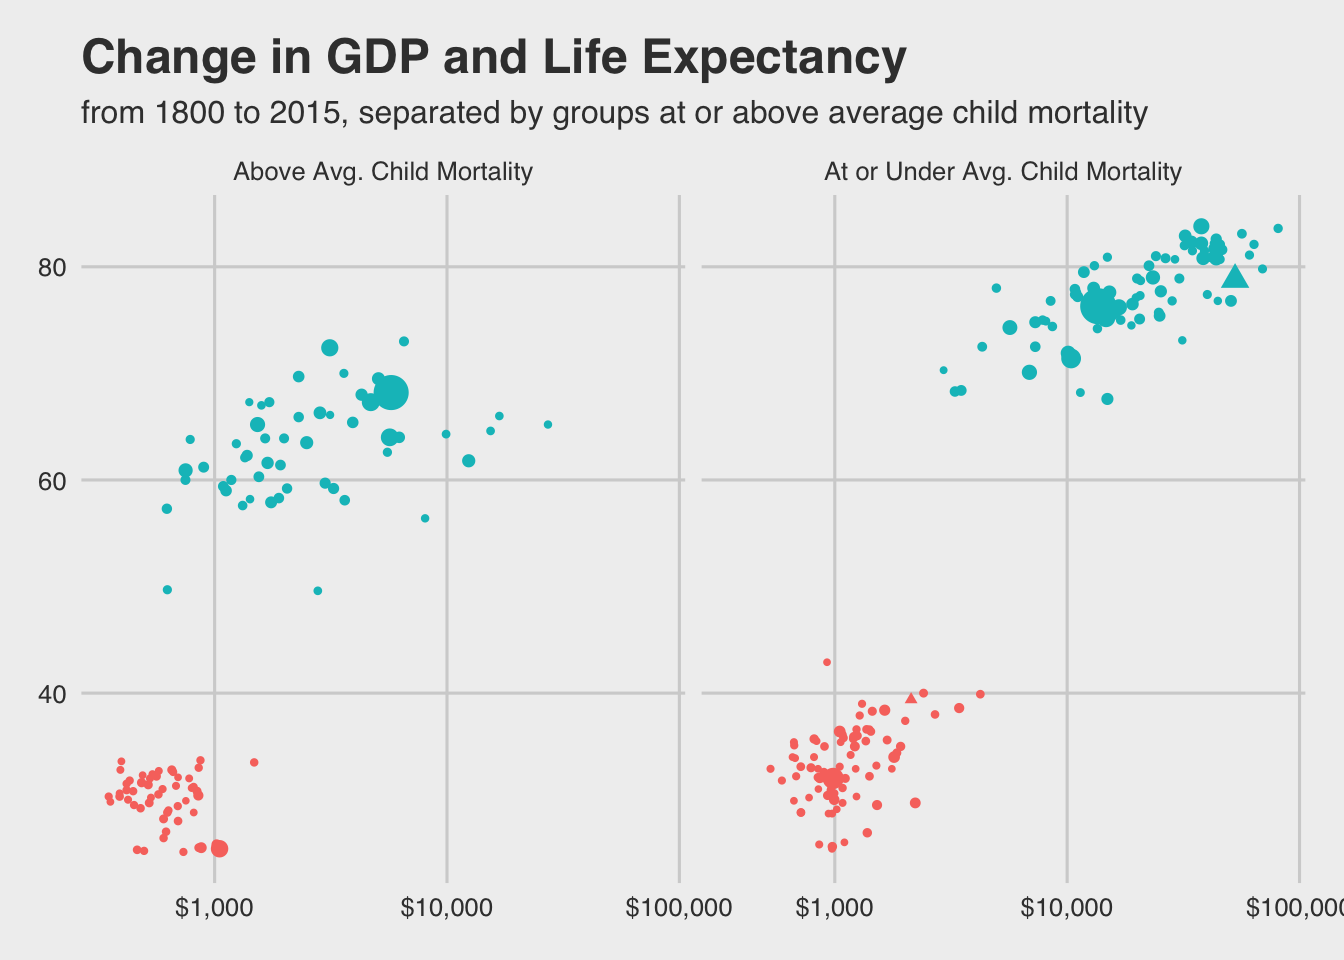
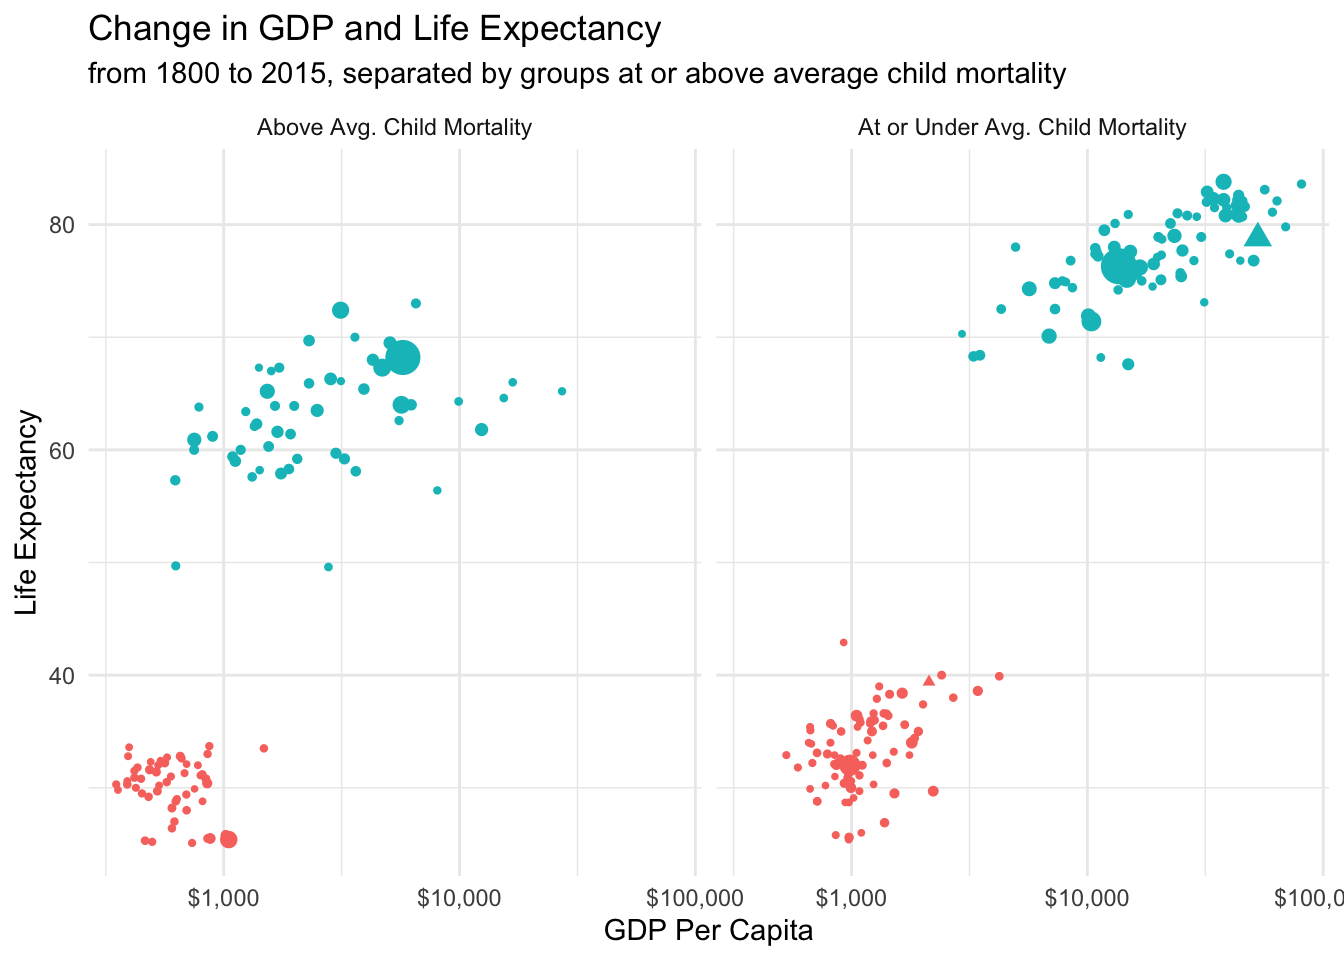
Updating Code Chunk highlighting

diff --git a/public/modules/rgraphicstutorial/index.html b/public/modules/rgraphicstutorial/index.html
@@ -42,15 +42,7 @@
 
     <script src="https://cdnjs.cloudflare.com/ajax/libs/highlight.js/9.12.0/highlight.min.js"></script>
     
-        <script src="https://cdnjs.cloudflare.com/ajax/libs/highlight.js/9.12.0/languages/go.min.js"></script>
-    
-        <script src="https://cdnjs.cloudflare.com/ajax/libs/highlight.js/9.12.0/languages/haskell.min.js"></script>
-    
-        <script src="https://cdnjs.cloudflare.com/ajax/libs/highlight.js/9.12.0/languages/kotlin.min.js"></script>
-    
-        <script src="https://cdnjs.cloudflare.com/ajax/libs/highlight.js/9.12.0/languages/scala.min.js"></script>
-    
-        <script src="https://cdnjs.cloudflare.com/ajax/libs/highlight.js/9.12.0/languages/swift.min.js"></script>
+        <script src="https://cdnjs.cloudflare.com/ajax/libs/highlight.js/9.12.0/languages/R.min.js"></script>
     
     <script>hljs.initHighlightingOnLoad();</script>
 
@@ -450,7 +442,7 @@ gselect_us &lt;- gap_selected_years %&gt;%
 
 
 ggplot(gselect_us) + 
-  # let&#39;s add the `shape` argument to our aesthetics
+  # let&#39;s add the &quot;shape&quot; argument to our aesthetics
   geom_point(aes(x = GDP_per_capita, y = life_expectancy, color = as.factor(Year), size = population,
                  shape = as.factor(us_val))) +
   # fix our log scale (make them dollars)
@@ -495,7 +487,7 @@ ggplot(child_mort_cutoff_data) +
   # let&#39;s get rid of the legends for now...
   guides(size = FALSE, color = FALSE, shape = FALSE) +
   # and add a theme
-  theme_fivethirtyeight() +
+  theme_minimal() +
   # and labels
   labs(
     y = &quot;Life Expectancy&quot;,

diff --git a/public/404.html b/public/404.html
@@ -42,15 +42,7 @@
 
     <script src="https://cdnjs.cloudflare.com/ajax/libs/highlight.js/9.12.0/highlight.min.js"></script>
     
-        <script src="https://cdnjs.cloudflare.com/ajax/libs/highlight.js/9.12.0/languages/go.min.js"></script>
-    
-        <script src="https://cdnjs.cloudflare.com/ajax/libs/highlight.js/9.12.0/languages/haskell.min.js"></script>
-    
-        <script src="https://cdnjs.cloudflare.com/ajax/libs/highlight.js/9.12.0/languages/kotlin.min.js"></script>
-    
-        <script src="https://cdnjs.cloudflare.com/ajax/libs/highlight.js/9.12.0/languages/scala.min.js"></script>
-    
-        <script src="https://cdnjs.cloudflare.com/ajax/libs/highlight.js/9.12.0/languages/swift.min.js"></script>
+        <script src="https://cdnjs.cloudflare.com/ajax/libs/highlight.js/9.12.0/languages/R.min.js"></script>
     
     <script>hljs.initHighlightingOnLoad();</script>
 

diff --git a/public/about/index.html b/public/about/index.html
@@ -42,15 +42,7 @@
 
     <script src="https://cdnjs.cloudflare.com/ajax/libs/highlight.js/9.12.0/highlight.min.js"></script>
     
-        <script src="https://cdnjs.cloudflare.com/ajax/libs/highlight.js/9.12.0/languages/go.min.js"></script>
-    
-        <script src="https://cdnjs.cloudflare.com/ajax/libs/highlight.js/9.12.0/languages/haskell.min.js"></script>
-    
-        <script src="https://cdnjs.cloudflare.com/ajax/libs/highlight.js/9.12.0/languages/kotlin.min.js"></script>
-    
-        <script src="https://cdnjs.cloudflare.com/ajax/libs/highlight.js/9.12.0/languages/scala.min.js"></script>
-    
-        <script src="https://cdnjs.cloudflare.com/ajax/libs/highlight.js/9.12.0/languages/swift.min.js"></script>
+        <script src="https://cdnjs.cloudflare.com/ajax/libs/highlight.js/9.12.0/languages/R.min.js"></script>
     
     <script>hljs.initHighlightingOnLoad();</script>
 

diff --git a/public/categories/index.html b/public/categories/index.html
@@ -42,15 +42,7 @@
 
     <script src="https://cdnjs.cloudflare.com/ajax/libs/highlight.js/9.12.0/highlight.min.js"></script>
     
-        <script src="https://cdnjs.cloudflare.com/ajax/libs/highlight.js/9.12.0/languages/go.min.js"></script>
-    
-        <script src="https://cdnjs.cloudflare.com/ajax/libs/highlight.js/9.12.0/languages/haskell.min.js"></script>
-    
-        <script src="https://cdnjs.cloudflare.com/ajax/libs/highlight.js/9.12.0/languages/kotlin.min.js"></script>
-    
-        <script src="https://cdnjs.cloudflare.com/ajax/libs/highlight.js/9.12.0/languages/scala.min.js"></script>
-    
-        <script src="https://cdnjs.cloudflare.com/ajax/libs/highlight.js/9.12.0/languages/swift.min.js"></script>
+        <script src="https://cdnjs.cloudflare.com/ajax/libs/highlight.js/9.12.0/languages/R.min.js"></script>
     
     <script>hljs.initHighlightingOnLoad();</script>
 

diff --git a/public/categories/r/index.html b/public/categories/r/index.html
@@ -42,15 +42,7 @@
 
     <script src="https://cdnjs.cloudflare.com/ajax/libs/highlight.js/9.12.0/highlight.min.js"></script>
     
-        <script src="https://cdnjs.cloudflare.com/ajax/libs/highlight.js/9.12.0/languages/go.min.js"></script>
-    
-        <script src="https://cdnjs.cloudflare.com/ajax/libs/highlight.js/9.12.0/languages/haskell.min.js"></script>
-    
-        <script src="https://cdnjs.cloudflare.com/ajax/libs/highlight.js/9.12.0/languages/kotlin.min.js"></script>
-    
-        <script src="https://cdnjs.cloudflare.com/ajax/libs/highlight.js/9.12.0/languages/scala.min.js"></script>
-    
-        <script src="https://cdnjs.cloudflare.com/ajax/libs/highlight.js/9.12.0/languages/swift.min.js"></script>
+        <script src="https://cdnjs.cloudflare.com/ajax/libs/highlight.js/9.12.0/languages/R.min.js"></script>
     
     <script>hljs.initHighlightingOnLoad();</script>
 

diff --git a/public/index.html b/public/index.html
@@ -42,15 +42,7 @@
 
     <script src="https://cdnjs.cloudflare.com/ajax/libs/highlight.js/9.12.0/highlight.min.js"></script>
     
-        <script src="https://cdnjs.cloudflare.com/ajax/libs/highlight.js/9.12.0/languages/go.min.js"></script>
-    
-        <script src="https://cdnjs.cloudflare.com/ajax/libs/highlight.js/9.12.0/languages/haskell.min.js"></script>
-    
-        <script src="https://cdnjs.cloudflare.com/ajax/libs/highlight.js/9.12.0/languages/kotlin.min.js"></script>
-    
-        <script src="https://cdnjs.cloudflare.com/ajax/libs/highlight.js/9.12.0/languages/scala.min.js"></script>
-    
-        <script src="https://cdnjs.cloudflare.com/ajax/libs/highlight.js/9.12.0/languages/swift.min.js"></script>
+        <script src="https://cdnjs.cloudflare.com/ajax/libs/highlight.js/9.12.0/languages/R.min.js"></script>
     
     <script>hljs.initHighlightingOnLoad();</script>
 

diff --git a/public/modules/2020-06-30-lesson1/index.html b/public/modules/2020-06-30-lesson1/index.html
@@ -42,15 +42,7 @@
 
     <script src="https://cdnjs.cloudflare.com/ajax/libs/highlight.js/9.12.0/highlight.min.js"></script>
     
-        <script src="https://cdnjs.cloudflare.com/ajax/libs/highlight.js/9.12.0/languages/go.min.js"></script>
-    
-        <script src="https://cdnjs.cloudflare.com/ajax/libs/highlight.js/9.12.0/languages/haskell.min.js"></script>
-    
-        <script src="https://cdnjs.cloudflare.com/ajax/libs/highlight.js/9.12.0/languages/kotlin.min.js"></script>
-    
-        <script src="https://cdnjs.cloudflare.com/ajax/libs/highlight.js/9.12.0/languages/scala.min.js"></script>
-    
-        <script src="https://cdnjs.cloudflare.com/ajax/libs/highlight.js/9.12.0/languages/swift.min.js"></script>
+        <script src="https://cdnjs.cloudflare.com/ajax/libs/highlight.js/9.12.0/languages/R.min.js"></script>
     
     <script>hljs.initHighlightingOnLoad();</script>
 

diff --git a/public/modules/2020-07-01-lesson2/index.html b/public/modules/2020-07-01-lesson2/index.html
@@ -42,15 +42,7 @@
 
     <script src="https://cdnjs.cloudflare.com/ajax/libs/highlight.js/9.12.0/highlight.min.js"></script>
     
-        <script src="https://cdnjs.cloudflare.com/ajax/libs/highlight.js/9.12.0/languages/go.min.js"></script>
-    
-        <script src="https://cdnjs.cloudflare.com/ajax/libs/highlight.js/9.12.0/languages/haskell.min.js"></script>
-    
-        <script src="https://cdnjs.cloudflare.com/ajax/libs/highlight.js/9.12.0/languages/kotlin.min.js"></script>
-    
-        <script src="https://cdnjs.cloudflare.com/ajax/libs/highlight.js/9.12.0/languages/scala.min.js"></script>
-    
-        <script src="https://cdnjs.cloudflare.com/ajax/libs/highlight.js/9.12.0/languages/swift.min.js"></script>
+        <script src="https://cdnjs.cloudflare.com/ajax/libs/highlight.js/9.12.0/languages/R.min.js"></script>
     
     <script>hljs.initHighlightingOnLoad();</script>
 

diff --git a/public/modules/index.html b/public/modules/index.html
@@ -42,15 +42,7 @@
 
     <script src="https://cdnjs.cloudflare.com/ajax/libs/highlight.js/9.12.0/highlight.min.js"></script>
     
-        <script src="https://cdnjs.cloudflare.com/ajax/libs/highlight.js/9.12.0/languages/go.min.js"></script>
-    
-        <script src="https://cdnjs.cloudflare.com/ajax/libs/highlight.js/9.12.0/languages/haskell.min.js"></script>
-    
-        <script src="https://cdnjs.cloudflare.com/ajax/libs/highlight.js/9.12.0/languages/kotlin.min.js"></script>
-    
-        <script src="https://cdnjs.cloudflare.com/ajax/libs/highlight.js/9.12.0/languages/scala.min.js"></script>
-    
-        <script src="https://cdnjs.cloudflare.com/ajax/libs/highlight.js/9.12.0/languages/swift.min.js"></script>
+        <script src="https://cdnjs.cloudflare.com/ajax/libs/highlight.js/9.12.0/languages/R.min.js"></script>
     
     <script>hljs.initHighlightingOnLoad();</script>
 

diff --git a/public/modules/lesson3/index.html b/public/modules/lesson3/index.html
@@ -42,15 +42,7 @@
 
     <script src="https://cdnjs.cloudflare.com/ajax/libs/highlight.js/9.12.0/highlight.min.js"></script>
     
-        <script src="https://cdnjs.cloudflare.com/ajax/libs/highlight.js/9.12.0/languages/go.min.js"></script>
-    
-        <script src="https://cdnjs.cloudflare.com/ajax/libs/highlight.js/9.12.0/languages/haskell.min.js"></script>
-    
-        <script src="https://cdnjs.cloudflare.com/ajax/libs/highlight.js/9.12.0/languages/kotlin.min.js"></script>
-    
-        <script src="https://cdnjs.cloudflare.com/ajax/libs/highlight.js/9.12.0/languages/scala.min.js"></script>
-    
-        <script src="https://cdnjs.cloudflare.com/ajax/libs/highlight.js/9.12.0/languages/swift.min.js"></script>
+        <script src="https://cdnjs.cloudflare.com/ajax/libs/highlight.js/9.12.0/languages/R.min.js"></script>
     
     <script>hljs.initHighlightingOnLoad();</script>
 

diff --git a/public/problemsets/index.html b/public/problemsets/index.html
@@ -42,15 +42,7 @@
 
     <script src="https://cdnjs.cloudflare.com/ajax/libs/highlight.js/9.12.0/highlight.min.js"></script>
     
-        <script src="https://cdnjs.cloudflare.com/ajax/libs/highlight.js/9.12.0/languages/go.min.js"></script>
-    
-        <script src="https://cdnjs.cloudflare.com/ajax/libs/highlight.js/9.12.0/languages/haskell.min.js"></script>
-    
-        <script src="https://cdnjs.cloudflare.com/ajax/libs/highlight.js/9.12.0/languages/kotlin.min.js"></script>
-    
-        <script src="https://cdnjs.cloudflare.com/ajax/libs/highlight.js/9.12.0/languages/scala.min.js"></script>
-    
-        <script src="https://cdnjs.cloudflare.com/ajax/libs/highlight.js/9.12.0/languages/swift.min.js"></script>
+        <script src="https://cdnjs.cloudflare.com/ajax/libs/highlight.js/9.12.0/languages/R.min.js"></script>
     
     <script>hljs.initHighlightingOnLoad();</script>
 

diff --git a/public/problemsets/set1/index.html b/public/problemsets/set1/index.html
@@ -42,15 +42,7 @@
 
     <script src="https://cdnjs.cloudflare.com/ajax/libs/highlight.js/9.12.0/highlight.min.js"></script>
     
-        <script src="https://cdnjs.cloudflare.com/ajax/libs/highlight.js/9.12.0/languages/go.min.js"></script>
-    
-        <script src="https://cdnjs.cloudflare.com/ajax/libs/highlight.js/9.12.0/languages/haskell.min.js"></script>
-    
-        <script src="https://cdnjs.cloudflare.com/ajax/libs/highlight.js/9.12.0/languages/kotlin.min.js"></script>
-    
-        <script src="https://cdnjs.cloudflare.com/ajax/libs/highlight.js/9.12.0/languages/scala.min.js"></script>
-    
-        <script src="https://cdnjs.cloudflare.com/ajax/libs/highlight.js/9.12.0/languages/swift.min.js"></script>
+        <script src="https://cdnjs.cloudflare.com/ajax/libs/highlight.js/9.12.0/languages/R.min.js"></script>
     
     <script>hljs.initHighlightingOnLoad();</script>
 
